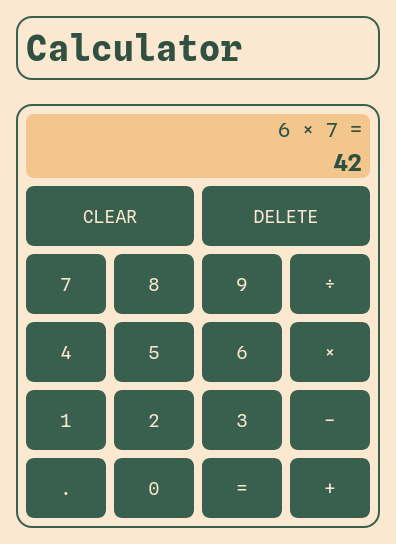
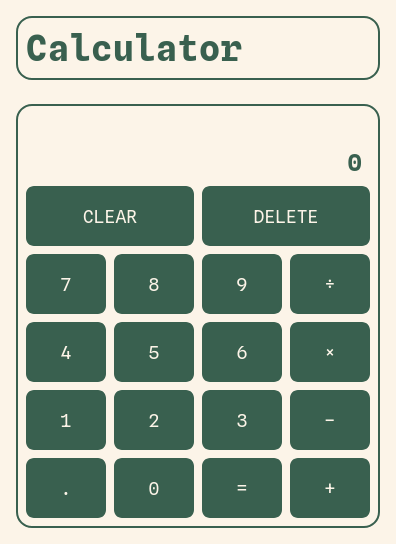
color touch up

Changed region(s): [[0.0606, 0.1875, 0.9394, 0.3438]]

diff --git a/code/styles.css b/code/styles.css
@@ -1,11 +1,11 @@
 @import url(https://fonts.bunny.net/css?family=spline-sans-mono:300,400,500,700);
 
 :root {
-    --bkg: hsl(34, 80%, 90%);
-    --txt: hsl(154, 25%, 25%);
-    --button: hsl(154, 25%, 30%);
-    --hover: hsl(34, 80%, 75%);
-    --diasbled: hsl(34, 20%, 80%);
+    --bkg: hsl(34, 80%, 95%);
+    --txt: hsl(154, 25%, 30%);
+    --button: var(--txt);
+    --accent: hsl(34, 80%, 75%);
+    --diasbled: hsl(34, 20%, 75%);
 
     --gap-size: min(8px, 0.5rem);
     --col-width: minmax(min-content, calc(32px + 3rem));
@@ -31,7 +31,7 @@ body {
 }
 
 ::selection {
-    background-color: var(--hover);
+    background-color: var(--accent);
 }
 
 h1 {
@@ -106,7 +106,7 @@ button#clear, button#delete {
 }
 
 button:hover {
-    background-color: var(--hover);
+    background-color: var(--accent);
     color: inherit;
 }
 
